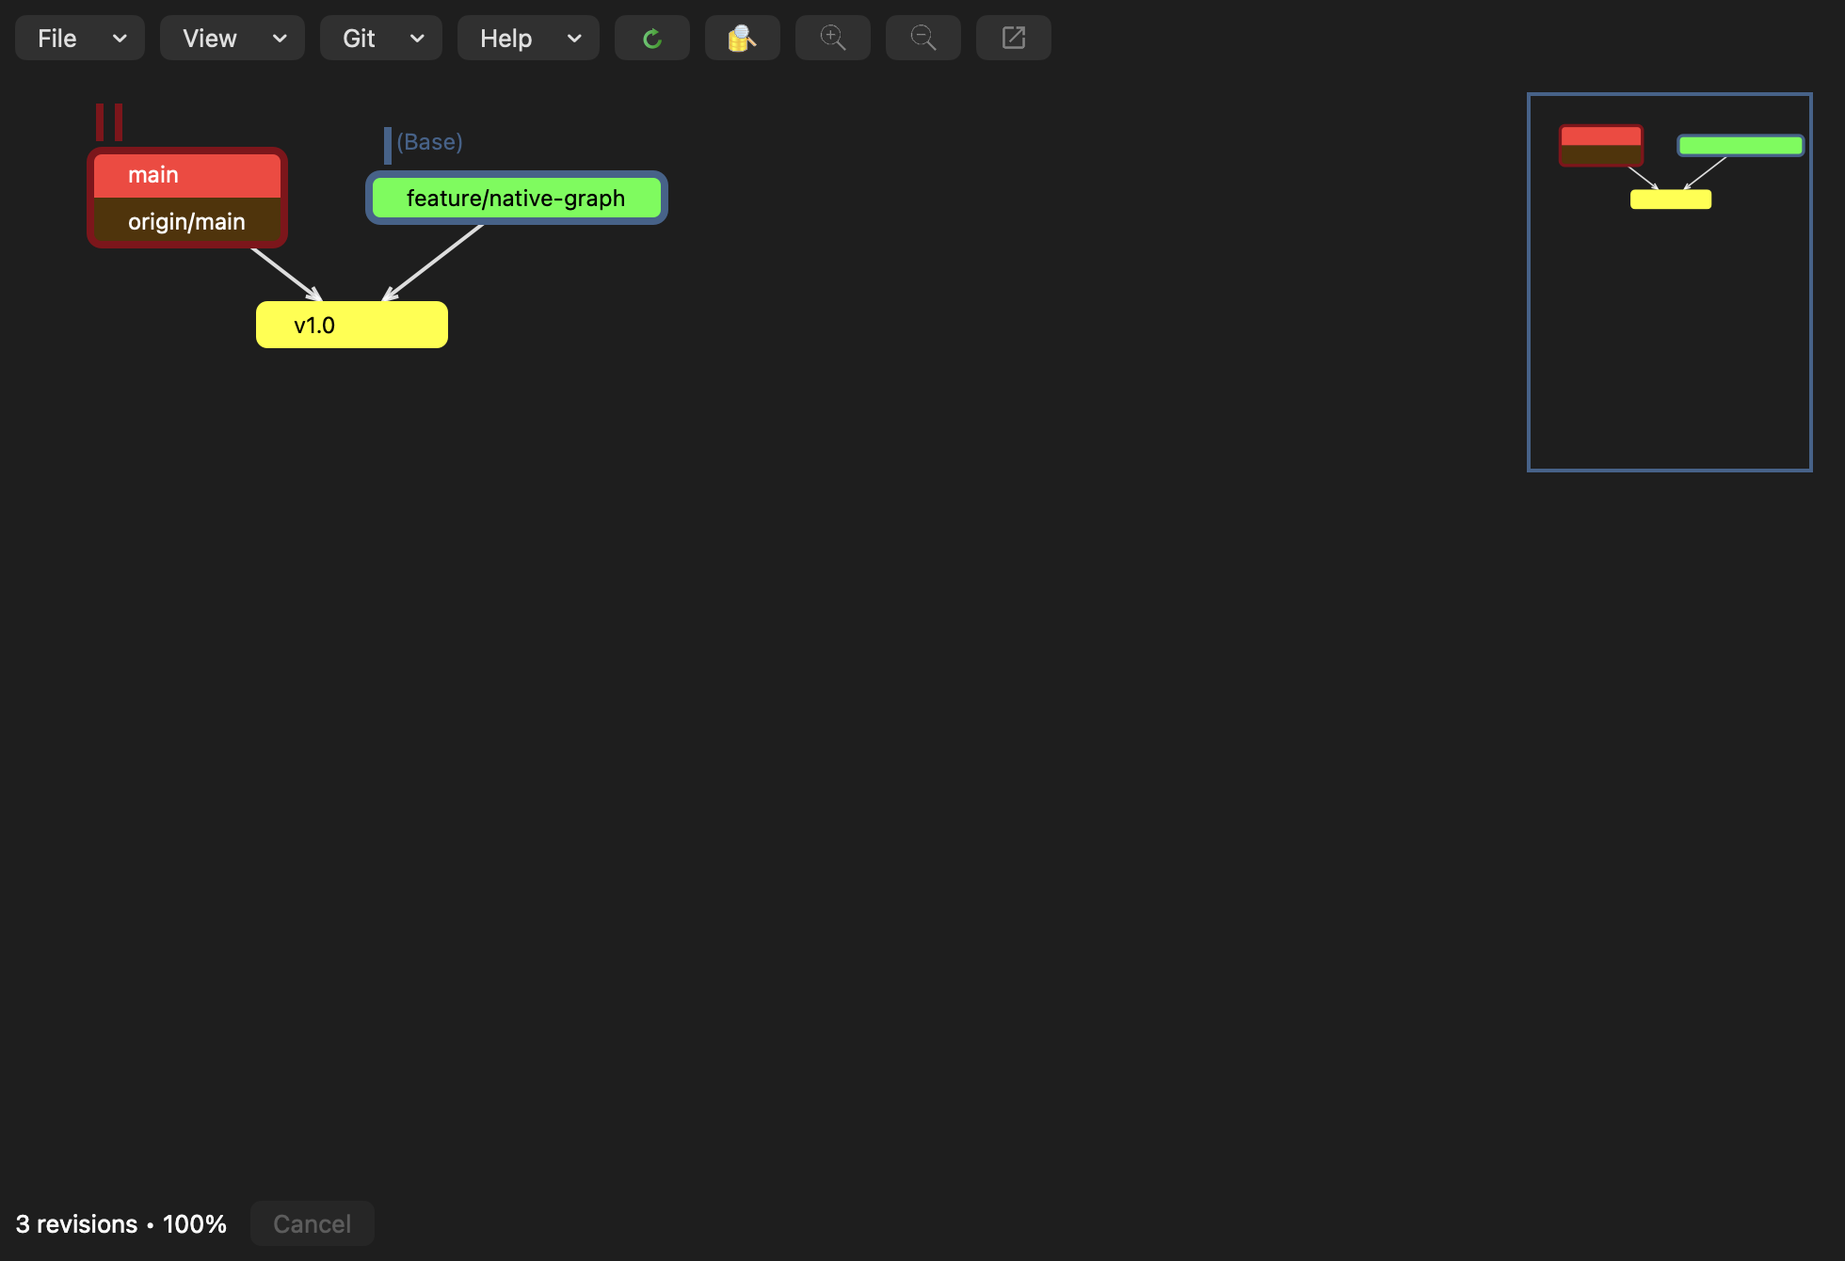
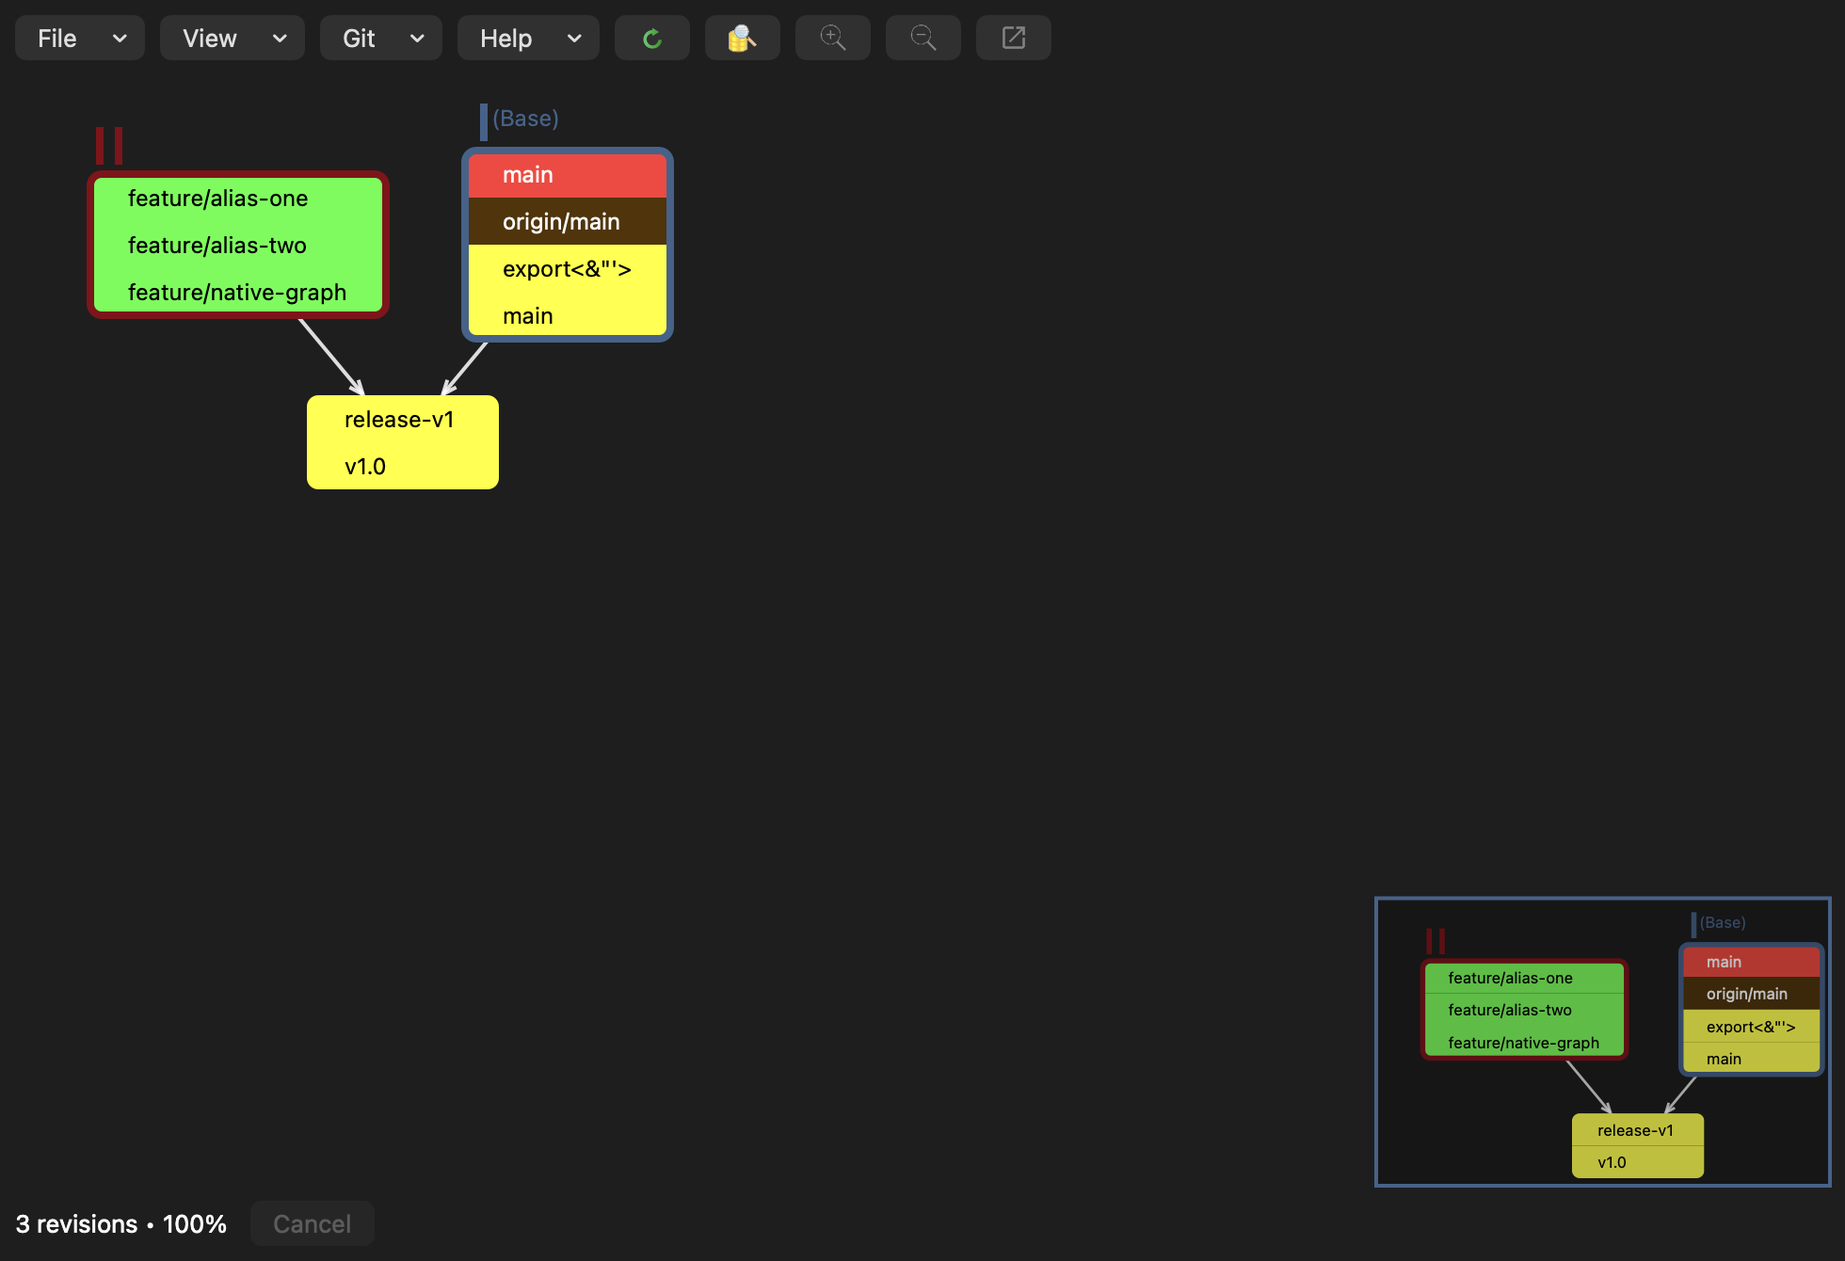
Match Revision Graph adaptive overview and refresh native screenshots

diff --git a/Sources/TurtleGitMac/RevisionGraphWindow.swift b/Sources/TurtleGitMac/RevisionGraphWindow.swift
@@ -268,7 +268,7 @@ enum RevisionGraphReferenceCommand {
         let host = NSView(frame: CGRect(x: 0, y: 0, width: 960, height: 560)); host.translatesAutoresizingMaskIntoConstraints = false
         scroll.hasHorizontalScroller = true; scroll.hasVerticalScroller = true; scroll.autohidesScrollers = true; scroll.documentView = canvas
         scroll.frame = CGRect(x: 0, y: 0, width: 960, height: 560); scroll.autoresizingMask = [.width, .height]; host.addSubview(scroll)
-        overview.frame = CGRect(x: 800, y: 350, width: 150, height: 200); overview.autoresizingMask = [.minXMargin, .minYMargin]; overview.scroll = scroll; host.addSubview(overview)
+        overview.scroll = scroll; host.addSubview(overview)
         scroll.contentView.postsBoundsChangedNotifications = true
         NotificationCenter.default.addObserver(self, selector: #selector(scrolled), name: NSView.boundsDidChangeNotification, object: scroll.contentView)
         NotificationCenter.default.addObserver(self, selector: #selector(sheetEnded), name: NSWindow.didEndSheetNotification, object: window)
@@ -371,6 +371,7 @@ enum RevisionGraphReferenceCommand {
     @objc private func clicked(_ sender: NSButton) { if let command = sender.identifier?.rawValue { perform(command) } }
     @objc private func cancelGraphOperation() { model.cancel() }
     @objc private func scrolled() { overview.needsDisplay = true }
+    func windowDidResize(_ notification: Notification) { update() }
     @objc private func sheetEnded() { update() }
     func requestRepositoryRefresh() { guard !model.closed else { return }; pendingRepositoryRefresh = true; update() }
     func validateMenuItem(_ item: NSMenuItem) -> Bool {
@@ -421,7 +422,7 @@ enum RevisionGraphReferenceCommand {
         update()
     }
     func update() {
-        canvas.resize(to: scroll.contentSize); canvas.needsDisplay = true; overview.needsDisplay = true
+        canvas.resize(to: scroll.contentSize); canvas.needsDisplay = true; overview.updateFrame(); overview.needsDisplay = true
         overview.isHidden = !model.showOverview || model.busy || model.nodes.isEmpty || model.nodes.count > 10_000
         status.stringValue = model.error ?? (model.busy ? "Loading…" : "\(model.nodes.count) revisions • \(Int((model.zoom * 100).rounded()))%")
         cancelButton.isEnabled = model.busy
@@ -592,20 +593,46 @@ enum RevisionGraphReferenceCommand {
     override var isFlipped: Bool { true }
     init(model: RevisionGraphWindowModel) { self.model = model; super.init(frame: .zero); setAccessibilityLabel("Graph overview") }
     required init?(coder: NSCoder) { fatalError("init(coder:) is not supported") }
-    var scale: CGFloat { guard let size = model.geometry?.size, size.width > 0, size.height > 0 else { return 1 }; return min((bounds.width - 8) / size.width, (bounds.height - 8) / size.height) }
+    private(set) var scale: CGFloat = 1
+    // BuildPreview uses a quarter of the viewport, at least 100 × 200,
+    // caps preview zoom at 100%, and keeps each resulting dimension >= 30.
+    // Four-point native drawing insets keep strokes inside the border.
+    static func layout(graph: CGSize, viewport: CGSize) -> (size: CGSize, scale: CGFloat) {
+        guard graph.width > 0, graph.height > 0, viewport.width > 0, viewport.height > 0 else { return (.zero, 1) }
+        let limit = CGSize(width: min(viewport.width, max(100, viewport.width / 4)), height: min(viewport.height, max(200, viewport.height / 4)))
+        let scale = max(0.000001, min(1, (limit.width - 8) / graph.width, (limit.height - 8) / graph.height))
+        return (CGSize(width: min(limit.width, max(30, graph.width * scale + 8)), height: min(limit.height, max(30, graph.height * scale + 8))), scale)
+    }
+    func updateFrame() {
+        guard let scroll, let host = superview else { return }
+        let layout = Self.layout(graph: model.geometry?.size ?? .zero, viewport: scroll.contentSize)
+        scale = layout.scale
+        let viewport = scroll.contentView.convert(scroll.contentView.bounds, to: host)
+        // Upstream DrawGraph positions the preview at width-previewWidth,
+        // height-previewHeight: the lower right, despite its top-right comment.
+        frame = CGRect(x: viewport.maxX - layout.size.width, y: host.isFlipped ? viewport.maxY - layout.size.height : viewport.minY, width: layout.size.width, height: layout.size.height)
+    }
+    var viewportRect: CGRect {
+        guard let scroll else { return .zero }
+        let visible = scroll.documentVisibleRect
+        return CGRect(x: (visible.minX - 10) / model.zoom * scale + 4, y: (visible.minY - 10) / model.zoom * scale + 4, width: visible.width / model.zoom * scale, height: visible.height / model.zoom * scale).intersection(bounds)
+    }
     override func draw(_ dirtyRect: NSRect) {
         NSColor.windowBackgroundColor.setFill(); bounds.fill()
         NSGraphicsContext.saveGraphicsState(); let transform = NSAffineTransform(); transform.translateX(by: 4, yBy: 4); transform.scale(by: scale); transform.concat()
-        (scroll?.documentView as? RevisionGraphCanvas)?.drawGraph(text: false); NSGraphicsContext.restoreGraphicsState()
-        if let visible = scroll?.documentVisibleRect {
-            let rect = CGRect(x: (visible.minX - 10) / model.zoom * scale + 4, y: (visible.minY - 10) / model.zoom * scale + 4, width: visible.width / model.zoom * scale, height: visible.height / model.zoom * scale)
-            NSColor.selectedControlColor.setStroke(); let path = NSBezierPath(rect: rect.intersection(bounds)); path.lineWidth = 2; path.stroke()
+        (scroll?.documentView as? RevisionGraphCanvas)?.drawGraph(text: true, renderingZoom: scale); NSGraphicsContext.restoreGraphicsState()
+        NSColor.separatorColor.setStroke(); let border = NSBezierPath(rect: bounds.insetBy(dx: 0.5, dy: 0.5)); border.lineWidth = 1; border.stroke()
+        let rect = viewportRect
+        if !rect.isNull, !rect.isEmpty {
+            NSColor.black.withAlphaComponent(0.25).setFill(); rect.fill()
+            NSColor.selectedControlColor.setStroke(); let path = NSBezierPath(rect: rect); path.lineWidth = 2; path.stroke()
         }
     }
     override func mouseDown(with event: NSEvent) { navigate(event) }
     override func mouseDragged(with event: NSEvent) { navigate(event) }
     private func navigate(_ event: NSEvent) {
         guard !model.busy, !model.closed, let scroll else { return }; let point = convert(event.locationInWindow, from: nil)
+        guard bounds.contains(point) else { return }
         let origin = CGPoint(x: max(0, (point.x - 4) / scale * model.zoom - scroll.contentSize.width / 2), y: max(0, (point.y - 4) / scale * model.zoom - scroll.contentSize.height / 2))
         scroll.contentView.scroll(to: scroll.contentView.constrainBoundsRect(NSRect(origin: origin, size: scroll.contentView.bounds.size)).origin); scroll.reflectScrolledClipView(scroll.contentView); needsDisplay = true
     }

diff --git a/docs/site/index.html b/docs/site/index.html
@@ -120,7 +120,7 @@
     <h2>Merge text conflicts</h2>
     <p>The native TurtleGitMerge editor now presents Theirs and Mine above an editable Merged result, with line numbers, colored differences, block choices and guarded Save/Mark as resolved. It remains a partial port; see the <a href="@@REPOSITORY_URL@@/blob/main/docs/TEXT-MERGE-PARITY.md">text merge parity audit</a> for verified behavior and remaining work.</p>
     <figure><a href="assets/text-merge-formats.png"><img src="assets/text-merge-formats.png" alt="Native TurtleGitMerge with UTF-32BE Theirs, UTF-8 BOM Mine, UTF-16LE BOM Base and editable result encoding and CRLF controls in each pane footer." width="2240" height="1624" loading="lazy"></a><figcaption>Actual native window with distinct Unicode source formats and pane format indicators. The result footer provides encoding and line-ending menus alongside tab settings. LF conversion and Undo, encoding changes and checkmarks were exercised. Full TortoiseMerge parity remains in progress.</figcaption></figure>
-    <figure><a href="assets/revision-graph-light.png"><img src="assets/revision-graph-light.png" alt="Native Revision Graph with colored reference boxes" width="1960" height="1340" loading="lazy"></a><figcaption>Solid branch/tag colors, source label padding, I/II selection markers and the overview. These are native content-view captures from a disposable repository. SVG/Graphviz and raster exports are now implemented; reference-specific node menus and per-reference deletion now pass private native checks. Physical save-panel, alternative-tool and signed acceptance remain pending. <a href="@@REPOSITORY_URL@@/blob/main/docs/REVISION-GRAPH.md">Revision Graph guide</a> · <a href="assets/revision-graph-export.svg">Sample SVG export</a> · <a href="assets/revision-graph-export.gv">Sample Graphviz export</a> · <a href="@@REPOSITORY_URL@@/blob/main/docs/REVISION-GRAPH-PARITY.md">Source mapping and remaining work</a>.</figcaption></figure>
+    <figure><a href="assets/revision-graph-light.png"><img src="assets/revision-graph-light.png" alt="Native Revision Graph with colored reference boxes" width="1960" height="1340" loading="lazy"></a><figcaption>Solid branch/tag colors, source label padding, I/II selection markers and the adaptive lower-right overview. These are native content-view captures from a disposable repository. SVG/Graphviz and raster exports are now implemented; reference-specific node menus, per-reference deletion and overview navigation now pass private native checks. Physical save-panel, alternative-tool and signed acceptance remain pending. <a href="@@REPOSITORY_URL@@/blob/main/docs/REVISION-GRAPH.md">Revision Graph guide</a> · <a href="assets/revision-graph-export.svg">Sample SVG export</a> · <a href="assets/revision-graph-export.gv">Sample Graphviz export</a> · <a href="@@REPOSITORY_URL@@/blob/main/docs/REVISION-GRAPH-PARITY.md">Source mapping and remaining work</a>.</figcaption></figure>
     <figure><a href="assets/revision-graph-dark.png"><img src="assets/revision-graph-dark.png" alt="Native Revision Graph in dark appearance" width="1960" height="1340" loading="lazy"></a><figcaption>Dark appearance keeps distinct branch and tag colors with graph-specific text contrast. Native interaction checks passed with system and bundled Git; physical gestures and signed acceptance remain pending. <a href="@@REPOSITORY_URL@@/blob/main/docs/REVISION-GRAPH.md">Revision Graph guide</a> · <a href="assets/revision-graph-export.svg">Sample SVG export</a> · <a href="assets/revision-graph-export.gv">Sample Graphviz export</a> · <a href="@@REPOSITORY_URL@@/blob/main/docs/REVISION-GRAPH-PARITY.md">Source mapping and remaining work</a>.</figcaption></figure>
     <figure><a href="assets/revision-graph-filter-light.png"><img src="assets/revision-graph-filter-light.png" alt="Native Revision Graph Filter with From and To fields" width="1020" height="380" loading="lazy"></a><figcaption>Source From/To layout, reference browsers, mutually exclusive branch scopes and immediate Reset. Scope enablement, Cancel, Reset and owned-sheet parent-close checks passed. <a href="@@REPOSITORY_URL@@/blob/main/docs/REVISION-GRAPH.md">Revision Graph guide</a> · <a href="assets/revision-graph-export.svg">Sample SVG export</a> · <a href="assets/revision-graph-export.gv">Sample Graphviz export</a> · <a href="@@REPOSITORY_URL@@/blob/main/docs/REVISION-GRAPH-PARITY.md">Source mapping and remaining work</a>.</figcaption></figure>
     <figure><a href="assets/revision-graph-filter-dark.png"><img src="assets/revision-graph-filter-dark.png" alt="Native Revision Graph Filter in dark appearance" width="1020" height="380" loading="lazy"></a><figcaption>Native dark fields and controls. Complete reference-browser handoff, keyboard and accessibility acceptance remain pending. <a href="@@REPOSITORY_URL@@/blob/main/docs/REVISION-GRAPH.md">Revision Graph guide</a> · <a href="assets/revision-graph-export.svg">Sample SVG export</a> · <a href="assets/revision-graph-export.gv">Sample Graphviz export</a> · <a href="@@REPOSITORY_URL@@/blob/main/docs/REVISION-GRAPH-PARITY.md">Source mapping and remaining work</a>.</figcaption></figure>

diff --git a/docs/qa/revision-graph-window-native-2026-10-10.swift b/docs/qa/revision-graph-window-native-2026-10-10.swift
@@ -148,6 +148,42 @@ import Darwin
         try require(controller.nodeMenu().items.map(\.title) == ["Show Log", "Compare revisions", "Unified diff"])
         controller.perform("zoomOut"); try require(abs(model.zoom - 0.9) < 0.0001)
         controller.perform("zoom100"); controller.perform("overview"); try require(model.zoom == 1 && model.showOverview)
+        let overview = views(window.contentView!).compactMap { $0 as? RevisionGraphOverview }.first!
+        let tall = RevisionGraphOverview.layout(graph: CGSize(width: 4000, height: 8000), viewport: CGSize(width: 960, height: 560))
+        try require(abs(tall.size.width - 104) < 0.01 && abs(tall.size.height - 200) < 0.01 && abs(tall.scale - 0.024) < 0.0001)
+        let tiny = RevisionGraphOverview.layout(graph: CGSize(width: 2, height: 3), viewport: CGSize(width: 960, height: 560))
+        try require(tiny.size == CGSize(width: 30, height: 30) && tiny.scale == 1)
+        let wide = RevisionGraphOverview.layout(graph: CGSize(width: 8000, height: 1000), viewport: CGSize(width: 1600, height: 1000))
+        try require(abs(wide.size.width - 400) < 0.01 && abs(wide.size.height - 57) < 0.01)
+        let viewport = scroll.contentView.convert(scroll.contentView.bounds, to: overview.superview!)
+        try require(abs(overview.frame.maxX - viewport.maxX) < 1 && abs(overview.frame.minY - viewport.minY) < 1)
+        try require(overview.frame.width <= max(100, scroll.contentSize.width / 4) && overview.frame.height <= max(200, scroll.contentSize.height / 4))
+        let originalWindowFrame = window.frame
+        window.setFrame(NSRect(origin: window.frame.origin, size: CGSize(width: 1400, height: 900)), display: false)
+        window.contentView!.layoutSubtreeIfNeeded(); controller.update()
+        let resizedViewport = scroll.contentView.convert(scroll.contentView.bounds, to: overview.superview!)
+        try require(abs(overview.frame.maxX - resizedViewport.maxX) < 1 && abs(overview.frame.minY - resizedViewport.minY) < 1)
+        try require(overview.frame.width > 0 && overview.scale <= 1)
+        window.setFrame(originalWindowFrame, display: false); window.contentView!.layoutSubtreeIfNeeded(); controller.update()
+        model.zoom = 2; controller.update()
+        controller.canvas.setFrameSize(CGSize(width: 3000, height: 3000))
+        clip.scroll(to: NSPoint(x: 100, y: 100)); scroll.reflectScrolledClipView(clip)
+        let selectedPair = model.selection
+        func overviewEvent(_ type: NSEvent.EventType, _ point: NSPoint) -> NSEvent {
+            NSEvent.mouseEvent(with: type, location: overview.convert(point, to: nil), modifierFlags: [], timestamp: 0, windowNumber: window.windowNumber, context: nil, eventNumber: 1, clickCount: 1, pressure: 0)!
+        }
+        let edge = NSPoint(x: overview.bounds.maxX - 1, y: overview.bounds.maxY - 1)
+        let expectedOrigin = NSPoint(x: max(0, (edge.x - 4) / overview.scale * model.zoom - scroll.contentSize.width / 2), y: max(0, (edge.y - 4) / overview.scale * model.zoom - scroll.contentSize.height / 2))
+        overview.mouseDown(with: overviewEvent(.leftMouseDown, edge))
+        try require(abs(clip.bounds.minX - expectedOrigin.x) < 1 && abs(clip.bounds.minY - expectedOrigin.y) < 1)
+        try require(model.selection == selectedPair && overview.bounds.contains(overview.viewportRect))
+        let lastOrigin = clip.bounds.origin
+        overview.mouseDragged(with: overviewEvent(.leftMouseDragged, NSPoint(x: -20, y: -20)))
+        try require(clip.bounds.origin == lastOrigin) // Outside the overview does not navigate.
+        overview.mouseDragged(with: overviewEvent(.leftMouseDragged, NSPoint(x: 1, y: 1)))
+        try require(clip.bounds.origin == .zero && model.selection == selectedPair)
+        model.zoom = 1; controller.update(); clip.scroll(to: .zero); scroll.reflectScrolledClipView(clip)
+        print("PASS: Revision Graph adaptive overview dimensions, bottom-right placement, resize, viewport and drag routing")
         func capture(_ target: NSWindow, prefix: String) async throws {
             guard CommandLine.arguments.count > 4 else { return }
             let directory = URL(fileURLWithPath: CommandLine.arguments[4])

diff --git a/docs/REVISION-GRAPH-PARITY.md b/docs/REVISION-GRAPH-PARITY.md
@@ -248,3 +248,28 @@ Focused synthetic navigation checks and the retained native graph suite passed
 with system and bundled Git. Unsigned Debug/Store builds and both packaging
 audits passed; see [navigation evidence](qa/revision-graph-navigation-2026-10-10.json).
 This does not certify physical gestures or complete upstream parity.
+
+
+## Adaptive overview
+
+`BuildPreview` in the pinned `RevisionGraphDlgFunc.cpp` uses maximum bounds
+of at least 100 × 200 or a quarter of the viewport, whichever is larger. It
+fits the graph without magnifying above 100% and keeps each result dimension
+at least 30. The native overview now follows these rules with a four-point
+stroke inset. `DrawGraph` positions it at the lower right despite the source
+comment saying top right. Native placement uses the clip viewport so the
+miniature does not cover the scrollbars, and updates after window resizing.
+
+The miniature reuses the graph labels and selection markers at preview scale.
+A shaded viewport rectangle and border replace the old outline-only marker.
+The marker is clipped to the miniature. Overview clicks/drags navigate without
+changing the selected node pair; drags outside its bounds do not navigate,
+matching upstream's overview hit guard. Clip constraints retain valid scroll
+origins. Native content captures are refreshed with this layout. Physical
+pointer/trackpad gestures, large-repository performance and signed execution
+remain pending.
+
+Both Git engines passed the focused native receiver. Unsigned Debug/Store
+builds, both packaging audits and the local Pages build passed. Refreshed
+light/dark captures were inspected; see [overview evidence](qa/revision-graph-overview-2026-10-10.json).
+Earlier rendering records describe their original checkpoint captures.

diff --git a/docs/REVISION-GRAPH.md b/docs/REVISION-GRAPH.md
@@ -10,8 +10,9 @@ branches, remote branches and tags retain distinct TortoiseGit color roles.
 Nodes without references display an abbreviated commit hash. Hover over a node
 for its full hash, author, author date and message.
 
-Click a node to select it. Command-click or Control-click another node to select
-a second revision. The first selection has an I marker and becomes the Base
+Click a node to select it; clicking the first selected node again clears the
+selection. Command-click or Control-click another node to select a second
+revision, or click a selected node with that modifier to remove it. The first selection has an I marker and becomes the Base
 when two nodes are selected; the second has a red II marker. Right-click a node
 for Log, repository browsing, comparison and reference commands. A single
 selection offers Switch actions for other local branches; several branches form
@@ -29,8 +30,10 @@ nodes are selected. See the parity record for remaining physical and signed
 interaction checks.
 
 Use the toolbar or **View** menu to zoom, return to 100%, fit width or height,
-or fit the whole graph. **Show Overview** displays a miniature graph; click or
-drag within it to navigate. The overview is suppressed above 10,000 displayed
+or fit the whole graph. Command/Control-wheel also zooms. Drag blank space to
+pan the canvas. **Show Overview** displays a miniature graph in the lower right;
+its size follows the graph and viewport, and the shaded rectangle shows the
+visible area. Click or drag within it to navigate. The overview is suppressed above 10,000 displayed
 nodes. **Refresh** or F5 reads the repository again.
 
 **View → Filter…** opens a revision range sheet. **From** excludes history
